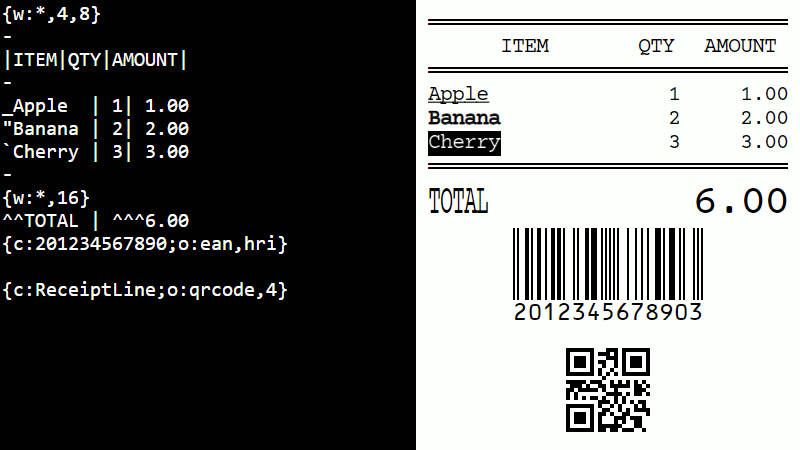
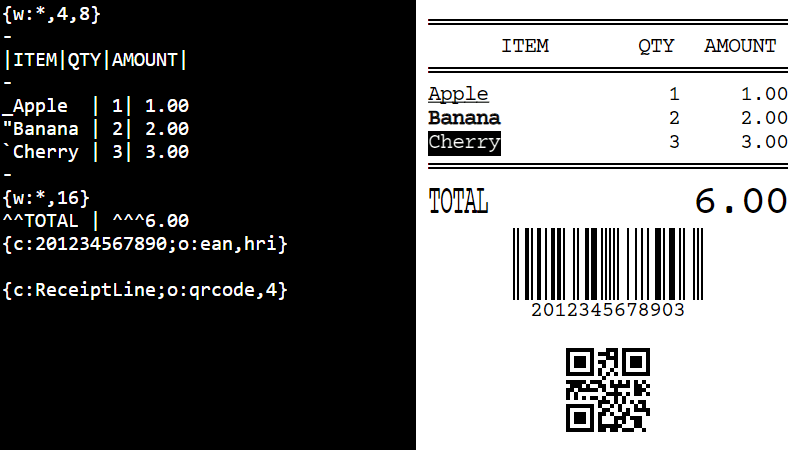
1.1.1

Changed region(s): [[0.625, 0.6533, 0.875, 0.7156]]

diff --git a/designer/index.html b/designer/index.html
@@ -378,6 +378,6 @@ limitations under the License.
             </div>
         </div>
     </div>
-    <footer>ReceiptLine Designer Version 1.1.0 © 2019 Open Foodservice System Consortium</footer>
+    <footer>ReceiptLine Designer Version 1.1.1 © 2019 Open Foodservice System Consortium</footer>
 </body>
 </html>

diff --git a/README.md b/README.md
@@ -6,6 +6,7 @@ Transform markdown-like text to receipt printer commands or SVG images.
 
 ![English](screenshot_en.png)  
 ![Japanese](screenshot_ja.png)  
+![German](screenshot_de.png)  
 
 # Features
 
@@ -186,6 +187,8 @@ The ReceiptLine Designer provides more features.
     - `cpl`, `encoding`, `upsideDown`, `spacing`, `cutting`, `gamma`, `command`
       - see the printer configuration above
 
+    *Please back up this json file as it will be initialized by updating the package.*  
+
 # Serial-LAN Converter
 
 The serial-LAN converter enables test printing to USB / Bluetooth printers that support virtual serial ports.  
@@ -217,6 +220,8 @@ The serial-LAN converter enables test printing to USB / Bluetooth printers that 
       - local port
     - `device`
       - the system path of the serial port
+
+    *Please back up this json file as it will be initialized by updating the package.*  
 
 1. Restart the server
 

diff --git a/CHANGELOG.md b/CHANGELOG.md
@@ -2,6 +2,10 @@
 
 ## [Unreleased]
 
+## [1.1.1] - 2020-11-18
+### Changed
+- SVG font for barcode text to web font
+
 ## [1.1.0] - 2020-11-09
 ### Added
 - Printing options (line spacing and paper cutting)
